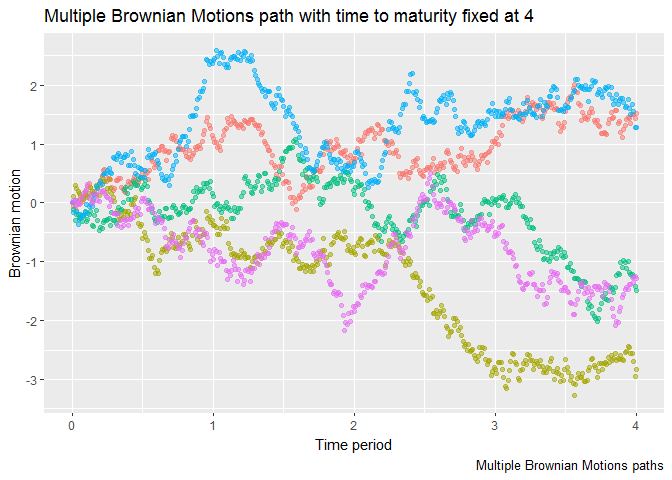
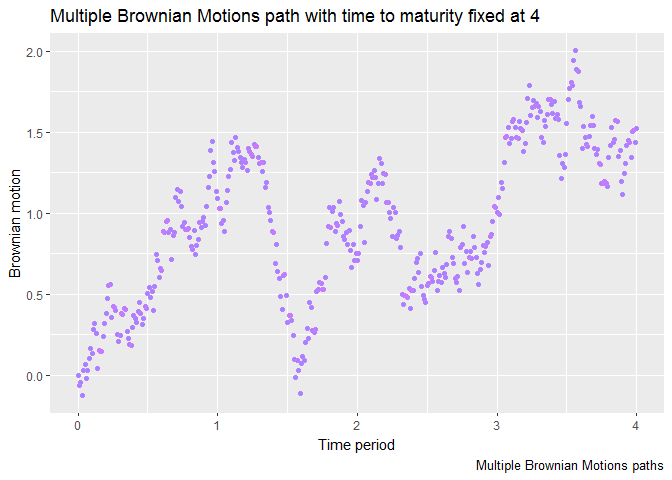
README FILE UPDATED

diff --git a/README.md b/README.md
@@ -9,8 +9,10 @@
     -   [Description of the functions as they was created and
         defined](#description-of-the-functions-as-they-was-created-and-defined)
         -   [srwalkGenerator](#srwalkgenerator)
+        -   [srwalk](#srwalk)
         -   [trwalkGenerator](#trwalkgenerator)
         -   [sbmotionGenerator](#sbmotiongenerator)
+        -   [sbmotion](#sbmotion)
 
 Random Walk R package (RandomWalk)
 ==================================
@@ -85,7 +87,8 @@ Functions provided by the package
 -   Multiple Brownian Motions generator:
     [sbmotionGenerator](#sbmotiongenerator)
 -   Brownian Motion constructor: [sbmotion](#sbmotion)
--   Theoretical Brownian Motion generator: [tbmotion]()
+-   Joint Distribution Function to characterize the distribution of
+    brownian motion: []()
 -   Quadratic Variation: [qvar](#qvar)
 
 ### Getters and Setters
@@ -190,6 +193,8 @@ representation:
 
 <!-- +++++++++++++++ New h3 +++++++++++++++ -->
 <!-- +++++++++++++++ srwalk description +++++++++++++++ -->
+### srwalk
+
 #### Summary
 
 This function is defined to be the constructor of a unique Sampled
@@ -197,8 +202,8 @@ Random Walk. It returns a unique S3 object with classes as follow:
 
     ## [1] "sampled_randomwalk" "data.frame"
 
-srwalk() outputs a data.frame which contains each time value step along
-with the associated Sampled Random Walk value, arranged as follow:
+srwalk() outputs a data.frame which contains each time step along with
+the associated Sampled Random Walk value, arranged as follow:
 
 1.  *time\_periods*: Ordered vector from 0 up to T(time\_to\_maturity).
     It represents a partition of the period of time where the random
@@ -292,11 +297,8 @@ with the associated Sampled Random Walk value, arranged as follow:
 </tbody>
 </table>
 
-<!-- +++++++++++++++ srwalkGenerator description +++++++++++++++ -->
-<!-- +++++++++++++++ HERE +++++++++++++++ -->
-<!-- +++++++++++++++ HERE +++++++++++++++ -->
-<!-- +++++++++++++++ HERE +++++++++++++++ -->
-<!-- +++++++++++++++ HERE +++++++++++++++ -->
+<!-- +++++++++++++++ New h3 +++++++++++++++ -->
+<!-- +++++++++++++++ srwalk description +++++++++++++++ -->
 ### trwalkGenerator
 
 <table style="width:17%;">
@@ -438,23 +440,18 @@ With expectation and variance:
 <tbody>
 <tr class="odd">
 <td>time_to_maturity</td>
-<td>100</td>
-<td>Final time up to the Brownian Motion goes</td>
+<td>Maximum time up to the Brownian Motion evolves</td>
+<td></td>
 </tr>
 <tr class="even">
-<td>prob</td>
-<td>0.5</td>
-<td>Probability of occurence of head and tail for each step. Symmetric by default</td>
+<td>scale</td>
+<td>It defines the time partition between each unit of time. For instance if the scale is 100, the time step [0,1] will be cut in 100 parts.</td>
+<td></td>
 </tr>
 <tr class="odd">
-<td>scale</td>
-<td>1</td>
-<td>Define the partition of the time period. Unlike the Random Walk, Brownian Motion has no natural incremets. Instead the normal law is used to compute each increment.</td>
-</tr>
-<tr class="even">
-<td>n</td>
-<td>FALSE</td>
-<td>If TRUE, all the periods are returned. If FALSE, only the last one be.</td>
+<td>seed</td>
+<td>With same seed, 2 exeriments will(would, in fact not yet the case when the param scale is different) give the same output. It therefore provides reproducibles experiments.</td>
+<td></td>
 </tr>
 </tbody>
 </table>
@@ -473,7 +470,7 @@ contains the following variables:
     library(RandomWalk)
     # The following line set the variable @sampled with a list of 20
     # data.frame of Adapted random walk.
-    Sampled <- sbmotionGenerator(time_to_maturity = 4, scale = 100, n = 5)
+    Sampled <- sbmotionGenerator(time_to_maturity = 4, scale = 100, n = 30)
 
 The above example generates a list of 5 specifics Brownian Motion. To
 get an idea of what it represents, the following chart presents the
@@ -483,3 +480,65 @@ pathes of those previous Brownian motion:
 4](README_files/figure-markdown_strict/unnamed-chunk-12-1.png)
 
 ![](README_files/figure-markdown_strict/unnamed-chunk-13-1.png)
+
+<!-- +++++++++++++++ sbmotion description +++++++++++++++ -->
+### sbmotion
+
+<table style="width:17%;">
+<colgroup>
+<col style="width: 5%" />
+<col style="width: 5%" />
+<col style="width: 5%" />
+</colgroup>
+<thead>
+<tr class="header">
+<th>Arguments</th>
+<th>Default</th>
+<th>Description</th>
+</tr>
+</thead>
+<tbody>
+<tr class="odd">
+<td>time_to_maturity</td>
+<td>Maximum time up to the Brownian Motion evolves</td>
+<td></td>
+</tr>
+<tr class="even">
+<td>scale</td>
+<td>It defines the time partition between each unit of time. For instance if the scale is 100, the time step [0,1] will be cut in 100 parts.</td>
+<td></td>
+</tr>
+<tr class="odd">
+<td>seed</td>
+<td>With same seed, 2 exeriments will(would, in fact not yet the case when the param scale is different) give the same output. It therefore provides reproducibles experiments.</td>
+<td></td>
+</tr>
+<tr class="even">
+<td>n</td>
+<td>Number of samples generated by the function</td>
+<td></td>
+</tr>
+</tbody>
+</table>
+
+This function returns a *data.frame* containing the following variables:
+
+1.  *time\_period*: Ordered vector from 0 up to T(time\_to\_maturity).
+    It represents the time period in which the Brownian Motion evolved.
+    The partition step of this vector depends on the variable *scale*.
+2.  *brownian\_motion\_path*: All random values taken by the Sampled
+    Brownian Motion.
+
+#### Example of usage
+
+    library(RandomWalk)
+    # The following line set the variable @sampled with a list of 20
+    # data.frame of Adapted random walk.
+    Sampled <- sbmotion(time_to_maturity = 4, scale = 100)
+
+The above example generates a list of 5 specifics Brownian Motion. To
+get an idea of what it represents, the following chart presents the
+pathes of those previous Brownian motion:
+
+![Brownian Motion path up to time to maturity fixed at
+4](README_files/figure-markdown_strict/unnamed-chunk-15-1.png)
